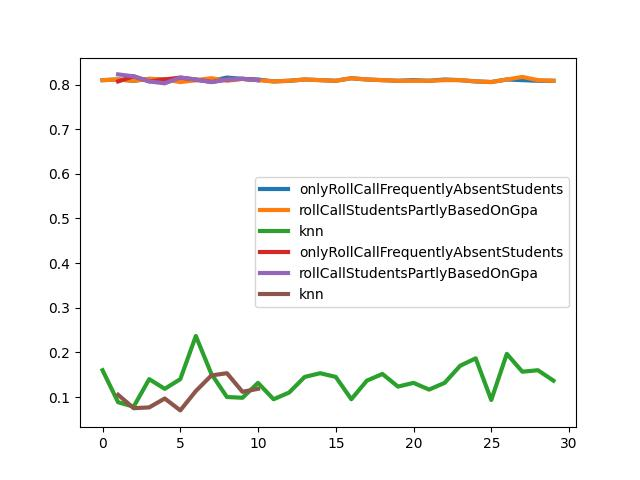
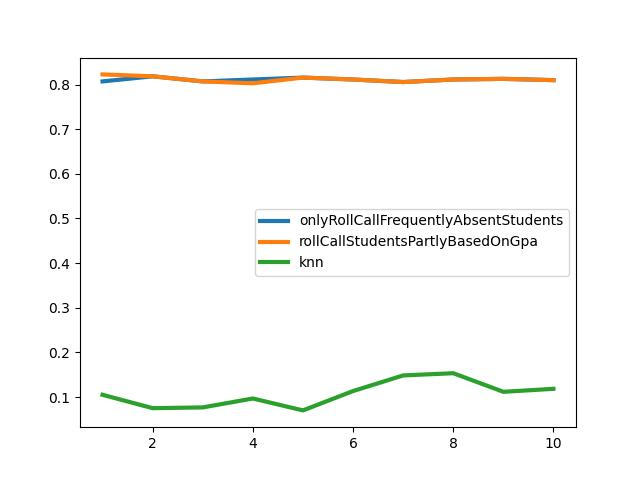
fix(draw): fix draw image wrong

diff --git a/README.md b/README.md
@@ -12,6 +12,10 @@
 | rollCallStudentsPartlyBasedOnGpa     | 0.12 ± 0.02 | 
 | knn                                  | 0.81 ± 0.01 | 
 
+图像
+
+![res.jpg](draw/res.jpg)
+
 ## 环境搭建
 
 在开始之前，请确保你的电脑上已经安装了
@@ -36,7 +40,7 @@
 >
 > __gen.exe__  =>  数据生成器  
 > ![](media/gen.exe.gif)
-> 
+>
 > __rollcall.exe__  =>  算法实现
 > ![](media/rollcall.exe.gif)
 > __gen.exe__ 需要先执行，请注意顺序  
